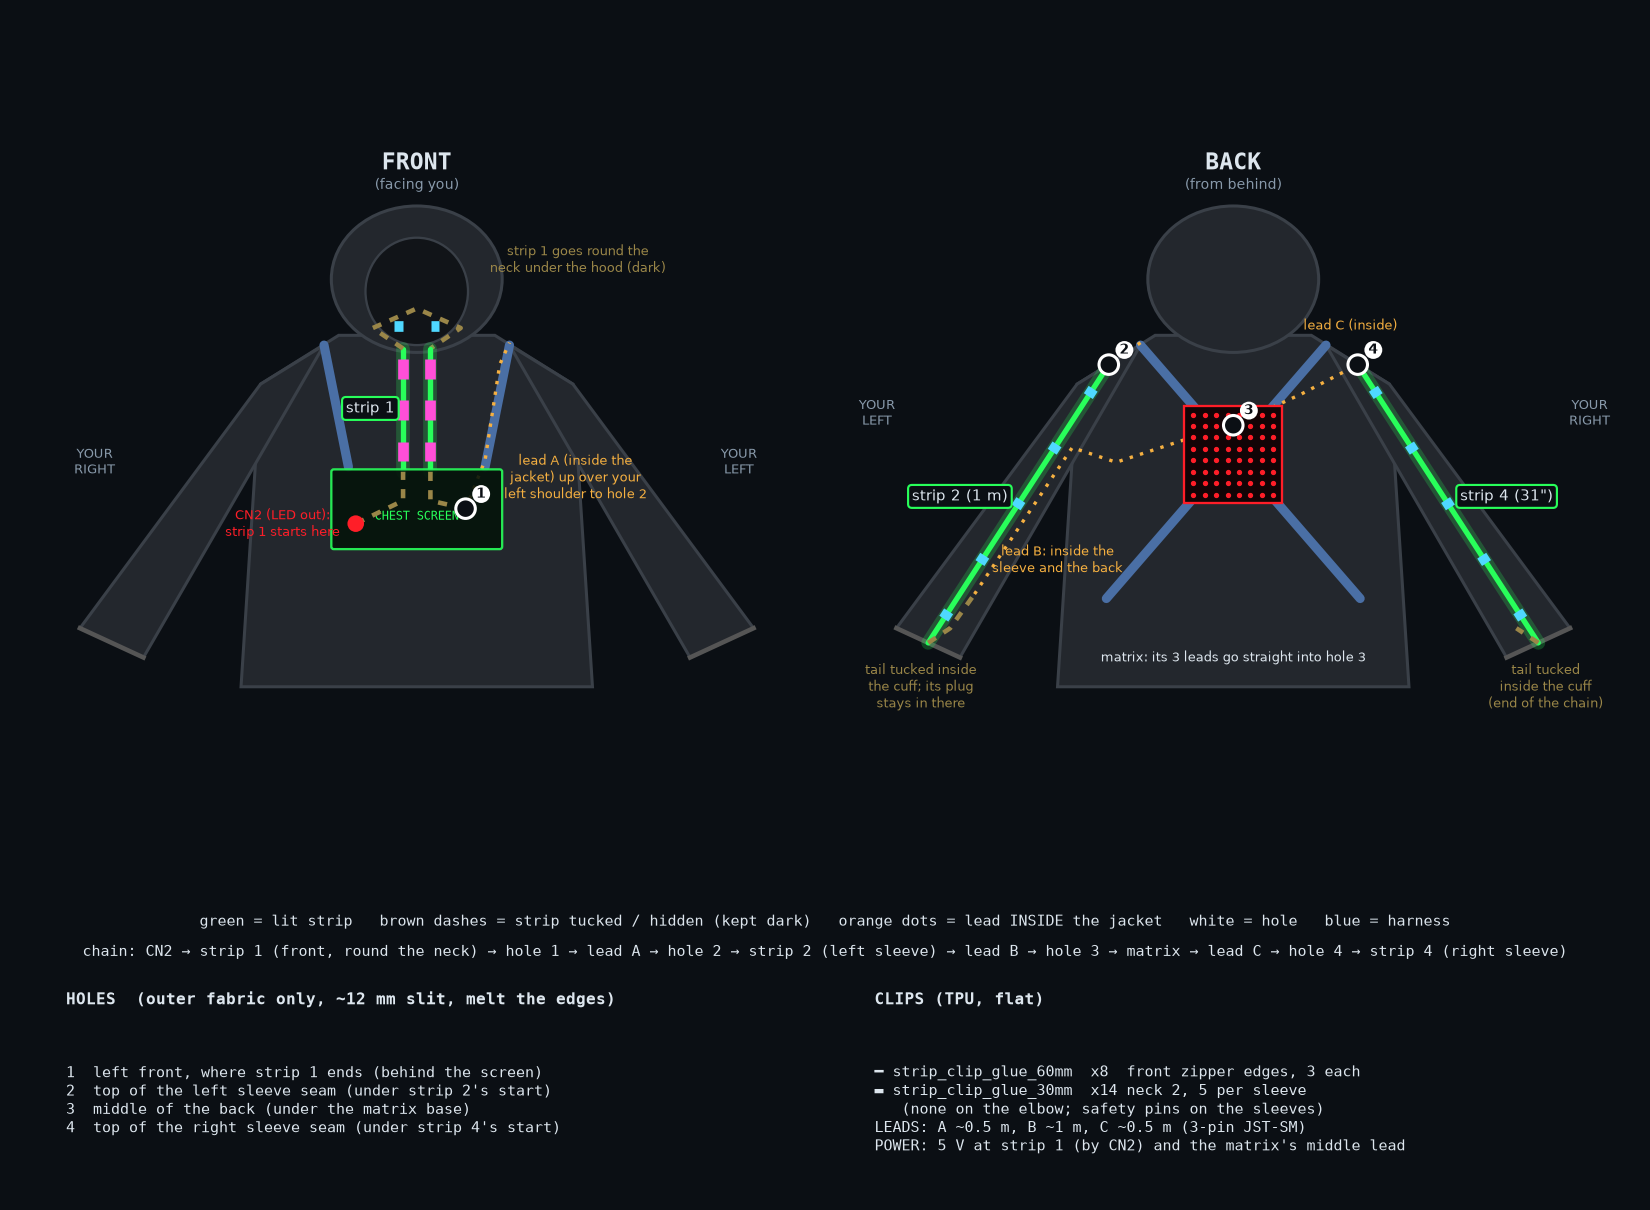
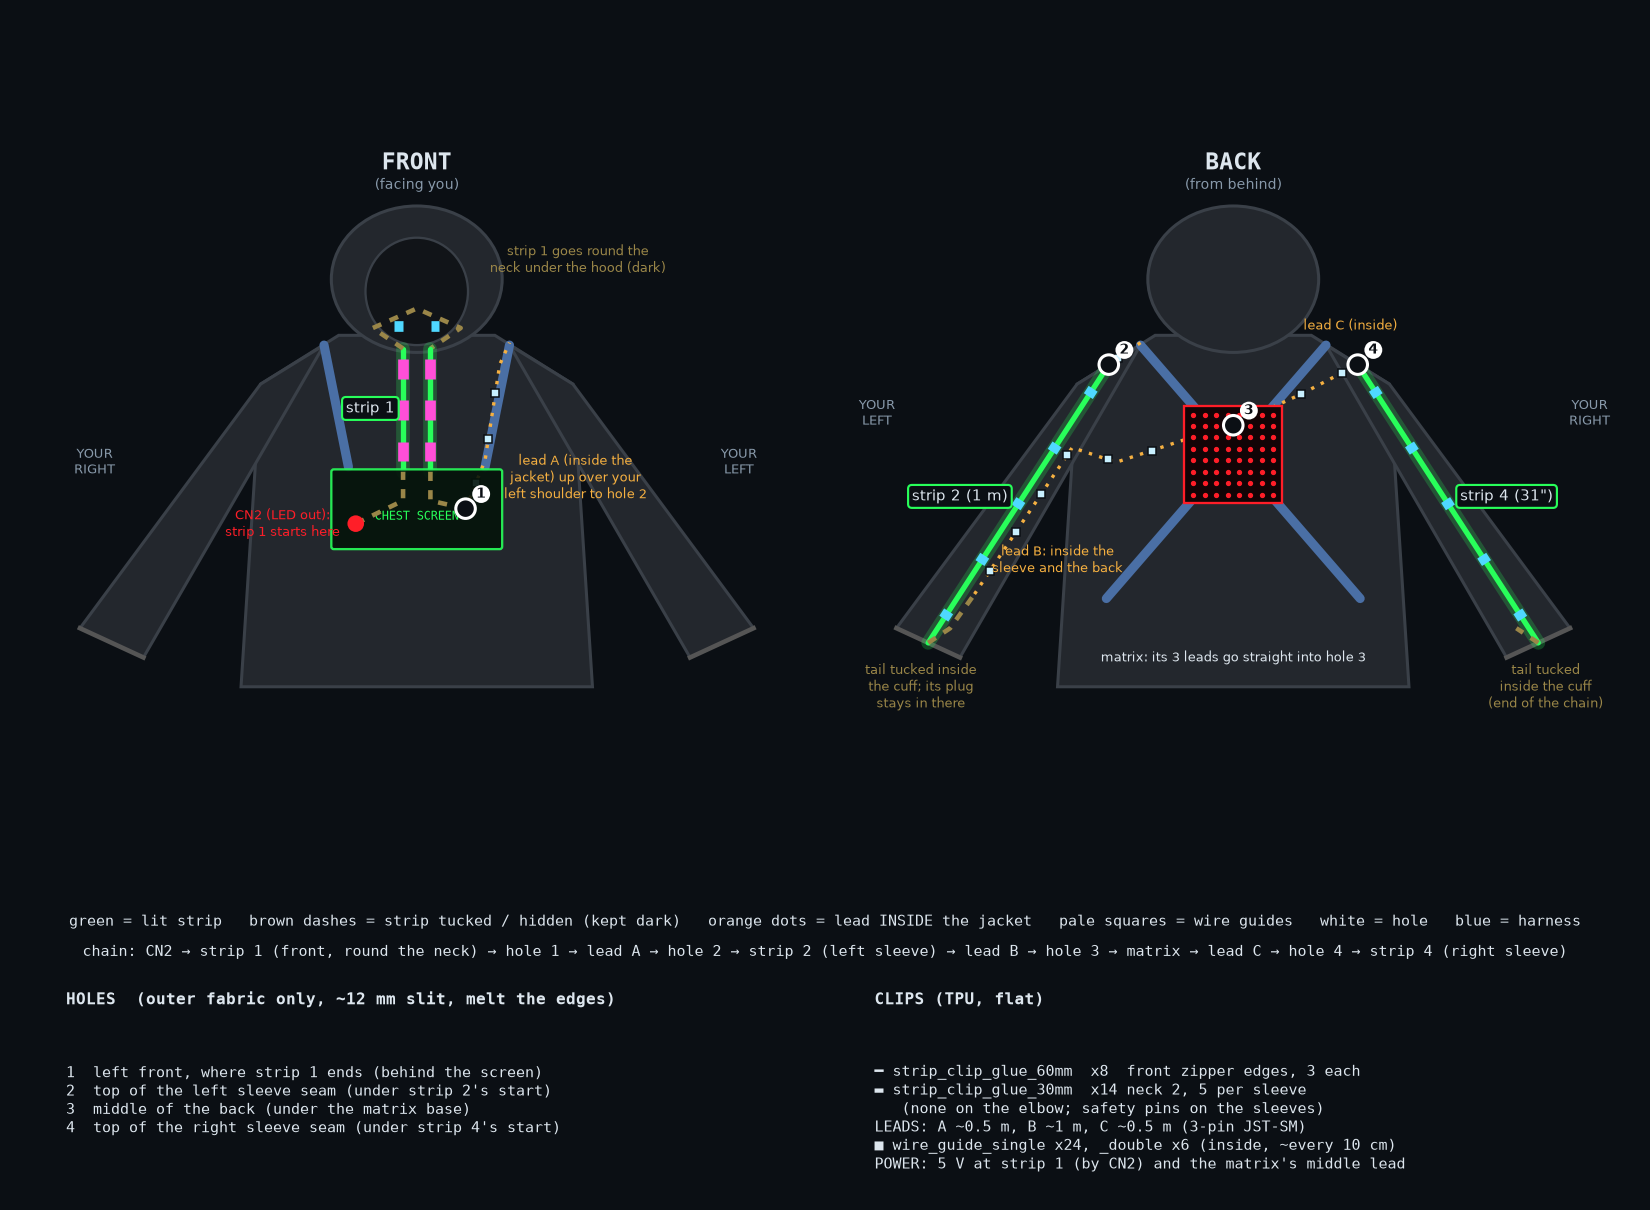
Glue-on wire guides for the leads inside the jacket; marked on the drawing

diff --git a/hardware/3dprint/wire_guide.py b/hardware/3dprint/wire_guide.py
@@ -1,0 +1,90 @@
+#!/usr/bin/env python3
+"""Wire guides for the inside of the jacket: short glue-on channels the LED
+extension leads (flat 3-wire, 5.4 x 1.75 mm) snap into, so the cabling inside
+lies flat and tidy instead of hanging loose. Same idea as strip_clip_glue.py:
+the cable presses in past two small lips; wide flanges with round holes the hot
+glue pushes up through and sets in.
+
+  wire_guide_single.stl   one lead
+  wire_guide_double.stl   two side by side (a data lead and a power wire)
+
+Glue them on about every 10 cm along each lead's route, and either side of
+anything that bends (the shoulder, the armpit). Print TPU (it flexes with the
+fabric), flat, no supports.
+
+  python3 wire_guide.py                       -> both
+  python3 wire_guide.py --width 5.4 --thick 1.75 --length 15
+"""
+import argparse
+import os
+import struct
+
+import numpy as np
+from manifold3d import CrossSection, Manifold
+
+HERE = os.path.dirname(os.path.abspath(__file__))
+
+FIT = 0.4          # room round the cable (width)
+CLEAR = 0.2        # room above it, under the lips
+WALL = 1.0
+BASE = 0.8
+LIP_OVER = 0.5     # the lips the cable snaps past
+LIP_T = 0.6
+FLANGE_W = 5.0
+FLANGE_T = 0.9
+HOLE = 2.2
+
+
+def guide(width, thick, length, n):
+    a = width + FIT                       # channel width
+    ll = BASE + thick + CLEAR             # underside of the lips
+    top = ll + LIP_T
+    inner_w = n * a + (n - 1) * WALL      # channels side by side, one wall between
+    wo = inner_w / 2 + WALL
+    parts = [CrossSection.square((2 * wo, BASE)).translate((-wo, 0))]
+    for s in (-1, 1):
+        parts.append(CrossSection.square((FLANGE_W, FLANGE_T)).translate((wo if s > 0 else -wo - FLANGE_W, 0)))
+    # walls: outer two plus the ones between channels
+    xs = [-wo + WALL / 2 + k * (a + WALL) for k in range(n + 1)]
+    for x in xs:
+        parts.append(CrossSection.square((WALL, top)).translate((x - WALL / 2, 0)))
+    # lips on both sides of every channel
+    for k in range(n):
+        c0 = -wo + WALL + k * (a + WALL)
+        parts.append(CrossSection.square((LIP_OVER, LIP_T)).translate((c0, ll)))
+        parts.append(CrossSection.square((LIP_OVER, LIP_T)).translate((c0 + a - LIP_OVER, ll)))
+    prof = parts[0]
+    for p in parts[1:]:
+        prof = prof + p
+    m = prof.extrude(length).rotate((90, 0, 90))
+    hc = wo + FLANGE_W / 2
+    for x in (length * 0.27, length * 0.73):
+        for s in (-1, 1):
+            m = m - Manifold.cylinder(10, HOLE / 2, HOLE / 2, 24).translate((x, s * hc, -1))
+    return m
+
+
+def write_stl(man, path, name):
+    mesh = man.to_mesh()
+    v = np.asarray(mesh.vert_properties)[:, :3]
+    f = np.asarray(mesh.tri_verts)
+    with open(path, "wb") as fh:
+        fh.write(name.encode().ljust(80, b" "))
+        fh.write(struct.pack("<I", len(f)))
+        for a, b, c in f:
+            nrm = np.cross(v[b] - v[a], v[c] - v[a])
+            nrm = nrm / (np.linalg.norm(nrm) or 1)
+            fh.write(struct.pack("<12fH", *nrm, *v[a], *v[b], *v[c], 0))
+
+
+if __name__ == "__main__":
+    ap = argparse.ArgumentParser()
+    ap.add_argument("--width", type=float, default=5.4, help="cable width, mm")
+    ap.add_argument("--thick", type=float, default=1.75, help="cable thickness, mm")
+    ap.add_argument("--length", type=float, default=15.0, help="guide length along the cable, mm")
+    a = ap.parse_args()
+    for n, name in ((1, "wire_guide_single"), (2, "wire_guide_double")):
+        m = guide(a.width, a.thick, a.length, n)
+        write_stl(m, os.path.join(HERE, name + ".stl"), "ROGUE.AI " + name)
+        b = m.bounding_box()
+        print("%s.stl: %.1f x %.1f x %.1f mm" % (name, b[3] - b[0], b[4] - b[1], b[5] - b[2]))

diff --git a/hardware/README.md b/hardware/README.md
@@ -30,6 +30,7 @@ back stays reachable (USB ports, SD card, the UART/LED connector).
 | `splice_25mm.stl` | Joins two strip ends. |
 | `saddle_clip.stl` | Saddle clip for crossing a seam. |
 | `strip_clip_glue_60mm.stl`, `strip_clip_glue_30mm.stl` | The channel for gluing instead of sewing (`strip_clip_glue.py`): 6 mm flanges with 2.5 mm holes the hot glue pushes up through. 60 mm on straight runs, 30 mm on curves and sleeves. TPU, flat. Fit depends on the strip's thickness (`--thick`, default 2 mm): print one first. |
+| `wire_guide_single.stl`, `wire_guide_double.stl` | Glue-on guides for the inside of the jacket (`wire_guide.py`): the flat LED extension leads (5.4 x 1.75 mm) snap into them so the cabling lies flat. Double = a data lead and a power wire side by side. About every 10 cm and either side of a bend; 24 single + 6 double. TPU, flat. |
 | `cable_port.stl` | Glue-on port an Ethernet cable comes out of (`cable_port.py`): a 40 x 48 mm plate with rivet holes for hot glue, a collar whose bore leans 35 degrees down so the cable hangs, and a side slit to snap the cable in (the plug never has to fit through). The cable comes through a small slit in the jacket under it, or along the groove underneath. TPU, plate down, no supports; `--cable` for your cable's diameter (default 6 mm). |
 | `badge_led_base.stl` | The researcher badge's LED base: clips onto the badge's bottom edge, two 3 mm LEDs light the clear layer's edge, a cradle for a 1 x CR2032 holder with switch (23.9 x 34.1 mm). See [badge/](badge/README.md). |
 

diff --git a/costume/README.md b/costume/README.md
@@ -375,6 +375,11 @@ seam, where strip 4 starts. A 12 mm slit each is enough for a JST plug; melt
 the edges with a soldering iron or hot knife (or a dab of fray glue) so the
 fabric doesn't run. Strip ends cover holes 2 and 4.
 
+Inside, the leads snap into glue-on wire guides (`hardware/3dprint/wire_guide_*`,
+about every 10 cm and either side of the shoulder and armpit): 24 single, 6
+double where a power wire runs with a lead. If the lining is loose, glue them to
+the lining's inside face and poke the 4 holes through both layers.
+
 To set the dark/lit counts: `LED_INDEX_TEST 1` lights every 10th LED white and
 every 50th red; count along each strip and adjust `LED_CHAIN`'s numbers.
 
